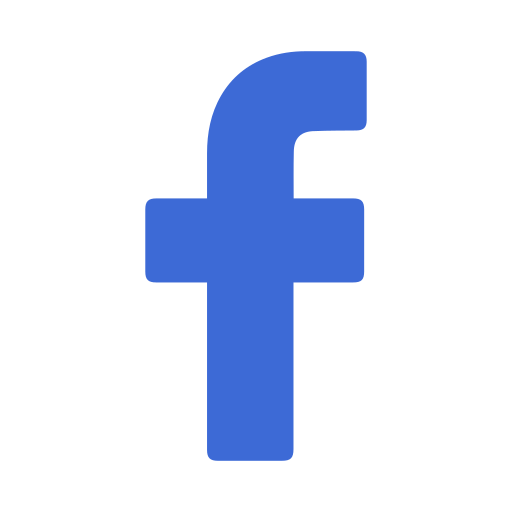
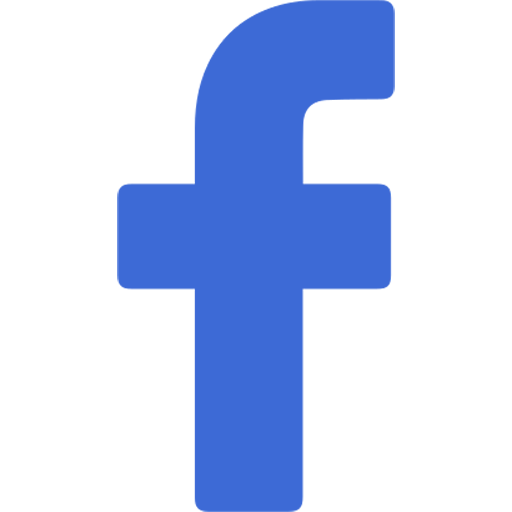
ajustes

Changed region(s): [[0.2188, 0.0, 0.7812, 1.0]]

diff --git a/style.css b/style.css
@@ -1,4 +1,4 @@
-@import url('https://fonts.googleapis.com/css2?family=Poppins:wght@200&display=swap');
+@import url('https://fonts.googleapis.com/css2?family=Poppins:wght@200;300;400&display=swap');
 
 * {
 margin: 0;
@@ -36,21 +36,19 @@ h1{
 color: #ed5631;
 padding-left: 50%;
 padding-top: 1.5em;
+margin-left: 30px;
+font-weight: 500;
 }
 
 main .redes-sociais img {
 position: absolute;
 height: 35px;
-padding-left: 12em;
+padding-left: 14em;
 margin-left: 6em;
 }
 
 main .redes-sociais a:first-child img {
 margin-left: 0;
-}
-
-main .redes-sociais a:last-child img {
-height: 40px;
 }
 
 main .alternative span{
@@ -63,7 +61,7 @@ margin-top: 6em;
 main .alternative span::before, main .alternative span::after {
 content: '';
 height: 1px;
-width: 86px;
+width: 115px;
 background-color: tomato;
 float: left;
 margin: 11px;

diff --git a/index.html b/index.html
@@ -22,7 +22,7 @@
                 </a>
 
                 <a href="#">
-                    <img src="./img/facebook.png" alt="Facebook">
+                    <img src="./img/facebook1.png" alt="Facebook">
                 </a>
 
             </div>
